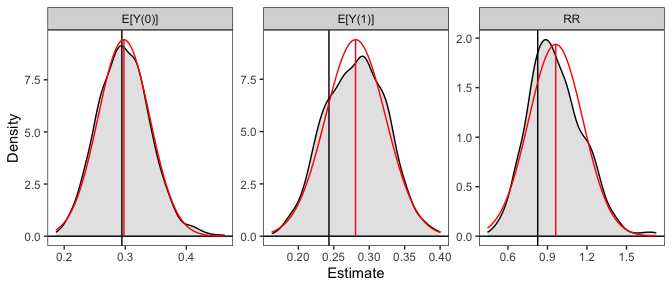
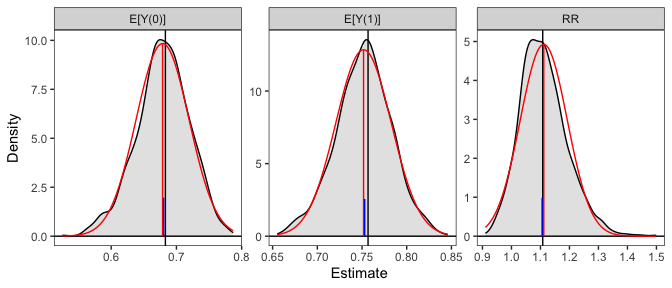
README updates

diff --git a/README.md b/README.md
@@ -46,14 +46,14 @@ library(clarify)
 data("lalonde", package = "MatchIt")
 
 # Fit the model
-fit <- glm(I(re78 == 0) ~ treat * (age + educ + race + married +
-                                     nodegree + re74 + re75),
+fit <- glm(I(re78 > 0) ~ treat + age + educ + race + married +
+             nodegree + re74 + re75,
            data = lalonde, family = binomial)
 ```
 
 Next, to estimate the ATT risk ratio, we simulate coefficients from
 their implied distribution and compute the effects of interest in each
-simulation, yielding a distribution of estimates that was can summarize
+simulation, yielding a distribution of estimates that we can summarize
 and use for inference:
 
 ``` r
@@ -67,19 +67,19 @@ sim_est <- sim_ame(sim_coefs, var = "treat", subset = treat == 1,
 
 sim_est
 #> A `clarify_est` object (from `sim_ame()`)
-#>  - Average marginal effect of `treat`
+#>  - Average adjusted predictions for `treat`
 #>  - 1000 simulated values
 #>  - 3 quantities estimated:                  
-#>  E[Y(0)] 0.2944381
-#>  E[Y(1)] 0.2432432
-#>  RR      0.8261270
+#>  E[Y(0)] 0.6830995
+#>  E[Y(1)] 0.7567568
+#>  RR      1.1078280
 
 # View the estimates, confidence intervals, and p-values
 summary(sim_est, null = c(`RR` = 1))
 #>         Estimate 2.5 % 97.5 % P-value
-#> E[Y(0)]    0.294 0.220  0.384       .
-#> E[Y(1)]    0.243 0.199  0.360       .
-#> RR         0.826 0.619  1.391    0.79
+#> E[Y(0)]    0.683 0.587  0.753       .
+#> E[Y(1)]    0.757 0.686  0.813       .
+#> RR         1.108 0.971  1.298    0.13
 
 # Plot the resulting sampling distributions
 plot(sim_est)
@@ -94,40 +94,19 @@ other examples. For a complete vignette, see `vignette("clarify")`.
 
 Simulation-based inference is an alternative to the delta method and
 bootstrapping for performing inference on quantities that are functions
-of model parameters. The delta method involves multiple assumptions: 1)
-the model coefficients are normally distributed, 2) the resulting
-quantity of interest is normally distributed, and 3) the first-order
-approximation to the variance of the desired estimator is equal to the
-true variance. When these assumptions are incorrect, which is especially
-likely when the quantity of interest is a complicated nonlinear function
-of the model coefficients, the resulting inferences can be inaccurate.
-Bootstrapping is one solution to this problem that does not require any
-of the above assumptions for valid nonparametric inference (though other
-assumptions are required); however, it is computationally intensive
-because the original model needs to be fit many times, and any problems
-with the model that are only apparent in some bootstrap samples (e.g.,
-failure to converge, perfect prediction) can make using bootstrapping
-challenging.
-
-Simulation-based inference provides a compromise to these two methods:
-it is more accurate than the delta method because it does not require
-assumptions 2) and 3) (though it still relies on the central limit
-theorem to assume the coefficients are normally distributed), and it is
-faster and more stable than bootstrapping because the model only needs
-to be fit once. Simulation-based inference involves simulating model
-coefficients from their multivariate distribution using their estimated
-values and covariance from a single model fit to the original data,
-computing the quantities of interest from each set of model
-coefficients, and then performing inference using the resulting
-distribution of the estimates as their sampling distribution. Confidence
-intervals can be computed using the percentiles of the resulting
-sampling distribution, and p-values can be computed by inverting the
-confidence intervals. Alternatively, if the resulting sampling
-distribution is normally distributed, its standard error can be
-estimated as the standard deviation of the estimates and normal-theory
-Wald confidence intervals and p-values can be computed. The methodology
-of simulation-based inference is explained in King, Tomz, and Wittenberg
-(2000).
+of model parameters. It involves simulating model coefficients from
+their multivariate distribution using their estimated values and
+covariance from a single model fit to the original data, computing the
+quantities of interest from each set of model coefficients, and then
+performing inference using the resulting distribution of the estimates
+as their sampling distribution. Confidence intervals can be computed
+using the percentiles of the resulting sampling distribution, and
+p-values can be computed by inverting the confidence intervals.
+Alternatively, if the resulting sampling distribution is normally
+distributed, its standard error can be estimated as the standard
+deviation of the estimates and normal-theory Wald confidence intervals
+and p-values can be computed. The methodology of simulation-based
+inference is explained in King, Tomz, and Wittenberg (2000).
 
 `clarify` was designed to provide a simple, general interface for
 simulation-based inference and includes a few convenience functions to
@@ -146,12 +125,12 @@ simulation-based inference.
 
 There are also some wrappers for `sim_apply()` for performing some
 common operations: `sim_ame()` computes the average marginal effect of a
-variable, mirroring `marginaleffects::comparisons()` and
-`marginaleffects::marginaleffects()`; `sim_setx()` computes predictions
-at typical values of the covariates and differences between them,
-mirroring `Zelig::setx()` and `Zelig::setx1()`; and `sim_adrf()`
-computes average dose-response functions. `clarify` also offers support
-for models fit to multiply imputed data with the `misim()` function.
+variable, mirroring `marginaleffects::avg_predictions()` and
+`marginaleffects::avg_slopes()`; `sim_setx()` computes predictions at
+typical values of the covariates and differences between them, mirroring
+`Zelig::setx()` and `Zelig::setx1()`; and `sim_adrf()` computes average
+dose-response functions. `clarify` also offers support for models fit to
+multiply imputed data with the `misim()` function.
 
 In the example above, we used `sim_ame()` to compute the ATT, but we
 could have also done so manually using `sim_apply()`, as demonstrated
@@ -175,17 +154,17 @@ sim_est
 #> A `clarify_est` object (from `sim_apply()`)
 #>  - 1000 simulated values
 #>  - 3 quantities estimated:                  
-#>  E[Y(0)] 0.2944381
-#>  E[Y(1)] 0.2432432
-#>  RR      0.8261270
+#>  E[Y(0)] 0.6830995
+#>  E[Y(1)] 0.7567568
+#>  RR      1.1078280
 
 # View the estimates, confidence intervals, and p-values;
 # they are the same as when using sim_ame() above
 summary(sim_est, null = c(`RR` = 1))
 #>         Estimate 2.5 % 97.5 % P-value
-#> E[Y(0)]    0.294 0.220  0.384       .
-#> E[Y(1)]    0.243 0.199  0.360       .
-#> RR         0.826 0.619  1.391    0.79
+#> E[Y(0)]    0.683 0.587  0.753       .
+#> E[Y(1)]    0.757 0.686  0.813       .
+#> RR         1.108 0.971  1.298    0.13
 
 # Plot the resulting sampling distributions
 plot(sim_est, reference = TRUE, ci = FALSE)
@@ -210,10 +189,10 @@ If we want to compute the risk difference, we can do that using
 sim_est <- transform(sim_est, `RD` = `E[Y(1)]` - `E[Y(0)]`)
 summary(sim_est, null = c(`RR` = 1, `RD` = 0))
 #>         Estimate   2.5 %  97.5 % P-value
-#> E[Y(0)]   0.2944  0.2199  0.3841       .
-#> E[Y(1)]   0.2432  0.1994  0.3602       .
-#> RR        0.8261  0.6192  1.3908    0.79
-#> RD       -0.0512 -0.1379  0.0927    0.79
+#> E[Y(0)]   0.6831  0.5872  0.7528       .
+#> E[Y(1)]   0.7568  0.6859  0.8134       .
+#> RR        1.1078  0.9708  1.2976    0.13
+#> RD        0.0737 -0.0215  0.1757    0.13
 ```
 
 We can also use `clarify` to compute predictions and first differences
